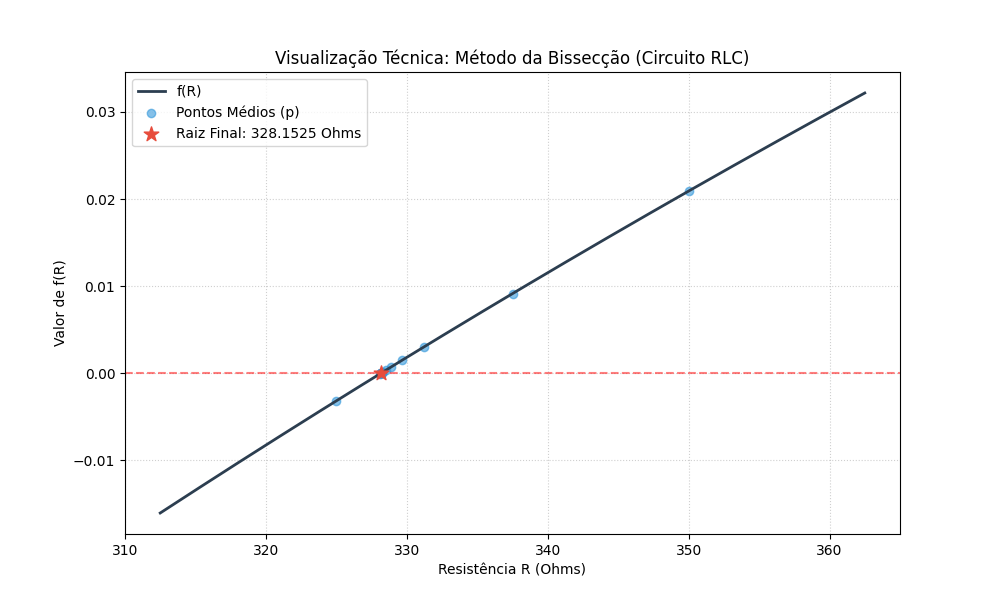
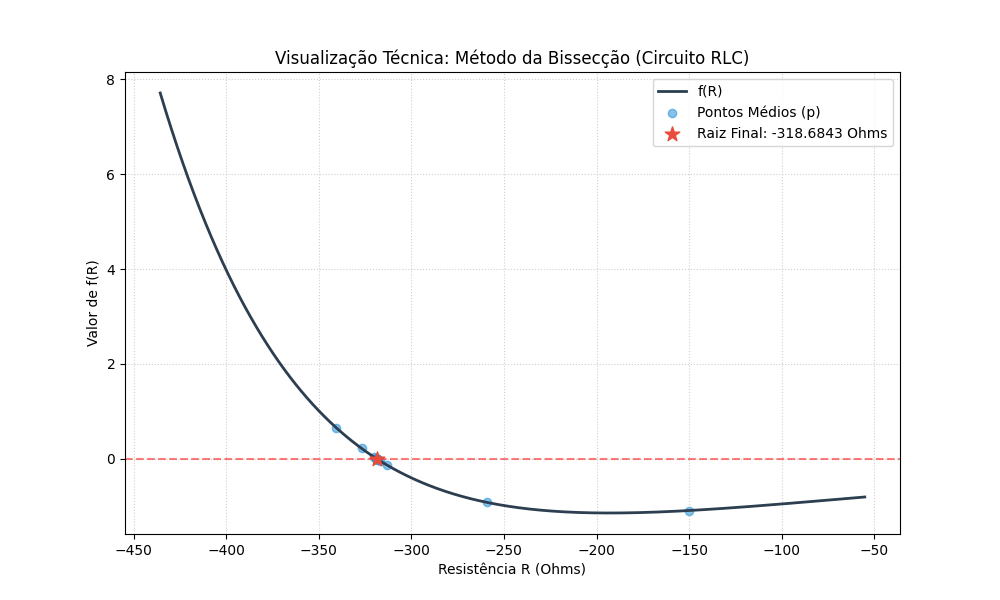
feat: Adiciona script busca de intervalos possíveis

diff --git a/buscar_intervalos.py b/buscar_intervalos.py
@@ -1,0 +1,88 @@
+"""
+buscar_intervalos.py
+--------------------
+Script auxiliar que encontra aleatoriamente 5 intervalos [a, b] válidos
+para o Método da Bissecção, onde:
+  - Ambos os valores são menores que a raíz positiva (~328 Ohms)
+  - A condição f(a) * f(b) < 0 é satisfeita
+
+Importa diretamente a função f(R) do script principal, evitando
+duplicação de lógica.
+"""
+
+import random
+import sys
+import os
+
+# Importa a função f(R) do script principal
+sys.path.insert(0, os.path.dirname(os.path.abspath(__file__)))
+from bisseccao_circuito_rlc import f
+
+# =============================================================================
+# LIMITES DO DOMÍNIO (com base na análise do sinal de f(R))
+# =============================================================================
+RAIZ_POSITIVA  = 328.0    # Limite superior: ambos a e b devem ser menores que isso
+RAIZ_NEGATIVA  = -318.677 # Raiz negativa real (fronteira de troca de sinal)
+LIMITE_FISICO  = 446.0    # Limite supercrítico: |R| > sqrt(200000) ≈ 447 → f = inf
+
+# Regiões de sinal de f(R):
+#  Região A [f > 0]: -LIMITE_FISICO < R < RAIZ_NEGATIVA  (ex: -445 a -319)
+#  Região B [f < 0]: RAIZ_NEGATIVA < R < RAIZ_POSITIVA  (ex: 0 a +327)
+#
+# Para garantir a > 0: 'a' vem sempre da Região B (positivo, f < 0)
+#                       'b' vem sempre da Região A (negativo, f > 0)
+
+def buscar_intervalos(quantidade: int = 5) -> list:
+    """
+    Busca aleatoriamente intervalos válidos [a, b] onde f(a) * f(b) < 0
+    e ambos os valores são menores que a raíz positiva real (~328 Ohms).
+
+    Estratégia:
+        Para garantir troca de sinal, um valor é sorteado da Região A (f > 0)
+        e outro da Região B (f < 0). Ambas as regiões têm R < 328.
+    """
+    encontrados = []
+
+    while len(encontrados) < quantidade:
+        # 'a' sempre positivo: sorteado da Região B (0 a +327.5), onde f(R) < 0
+        a = random.uniform(0.5, RAIZ_POSITIVA - 0.5)
+
+        # 'b' sempre negativo: sorteado da Região A (-445 a -319.2), onde f(R) > 0
+        b = random.uniform(-LIMITE_FISICO + 1, RAIZ_NEGATIVA - 0.5)
+
+        fa = f(a)
+        fb = f(b)
+
+        # Verificação explícita da condição (segurança extra)
+        if fa == float('inf') or fb == float('inf'):
+            continue
+
+        if fa * fb < 0:
+            # Mantém a ordem: a (positivo) e b (negativo), sem reordenar por tamanho
+            encontrados.append((a, b, fa, fb))
+
+    return encontrados
+
+
+def main():
+    print("\n" + "=" * 72)
+    print("  BUSCADOR ALEATÓRIO DE INTERVALOS VÁLIDOS — MÉTODO DA BISSECÇÃO")
+    print(f"  Restrição: a < {RAIZ_POSITIVA} e b < {RAIZ_POSITIVA} | f(a)×f(b) < 0")
+    print("=" * 72)
+
+    intervalos = buscar_intervalos(5)
+
+    print(f"\n  {'#':<4} {'a':>14} {'b':>14} {'f(a)':>14} {'f(b)':>12}")
+    print("  " + "-" * 62)
+
+    for i, (a, b, fa, fb) in enumerate(intervalos, 1):
+        print(f"  {i:<4} {a:>14.4f} {b:>14.4f} {fa:>14.6f} {fb:>12.6f}")
+
+    print("  " + "-" * 62)
+    print(f"  Todos os intervalos satisfazem: f(a) × f(b) < 0 ✓")
+    print(f"  'a' é sempre positivo (a > 0) ✓")
+    print(f"  Todos os valores são menores que a raíz positiva (~328 Ohms) ✓\n")
+
+
+if __name__ == "__main__":
+    main()